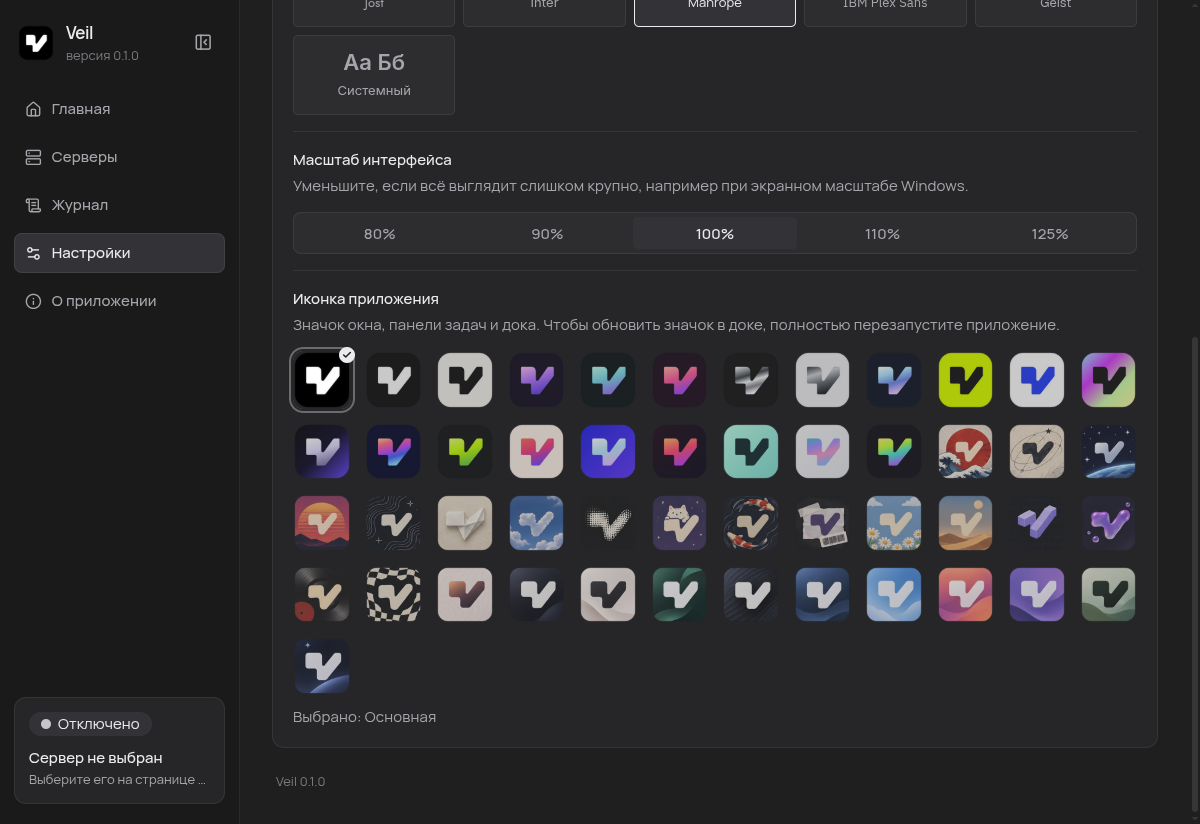
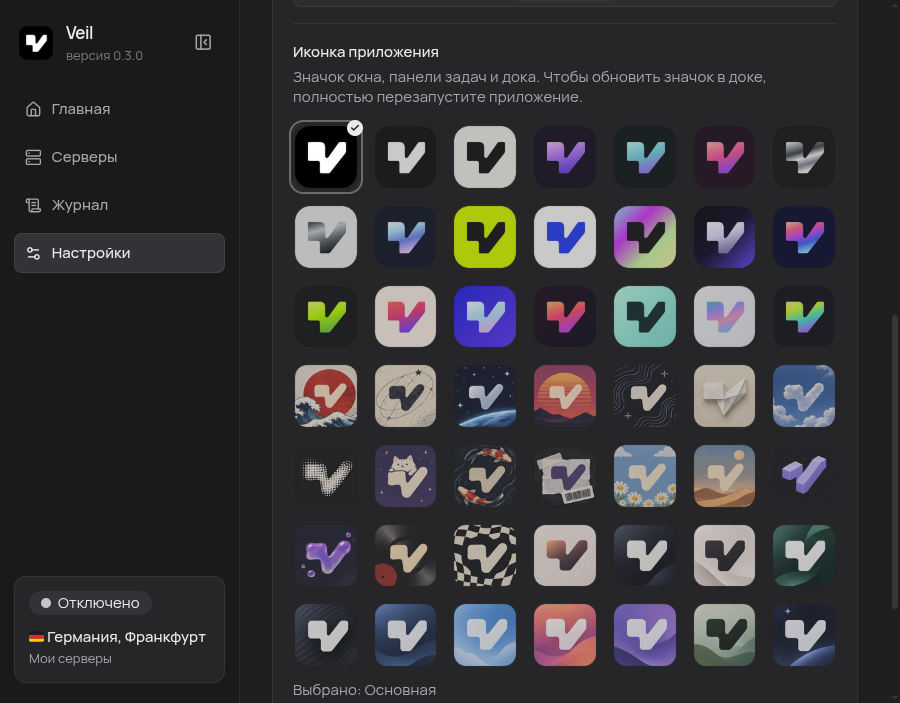
docs: обновить скриншоты и добавить экраны настроек

diff --git a/README.md b/README.md
@@ -60,9 +60,18 @@ All files are on the [Releases](https://github.com/maltira/veil-releases/release
   <img src="screenshots/08-storage.png" alt="Data storage and reset" width="49%">
 </p>
 
+<p align="center">
+  <img src="screenshots/09-system.png" alt="System settings" width="49%">
+  <img src="screenshots/10-connection-settings.png" alt="Connection settings" width="49%">
+</p>
+
+<p align="center">
+  <img src="screenshots/11-subscriptions-settings.png" alt="Subscription settings" width="49%">
+</p>
+
 ## Notes
 
-- **TUN on Linux** works in the `.deb` and `.rpm` packages only, not in the AppImage. On first use the system asks for the administrator password once.
+- **TUN on Linux** works in the `.deb` and `.rpm` packages only, not in the AppImage. The first time you connect in TUN mode, the system asks for the administrator password once.
 - **TUN on Windows** needs administrator rights. Veil offers to restart itself as administrator.
 - Windows support is in early testing.
 
